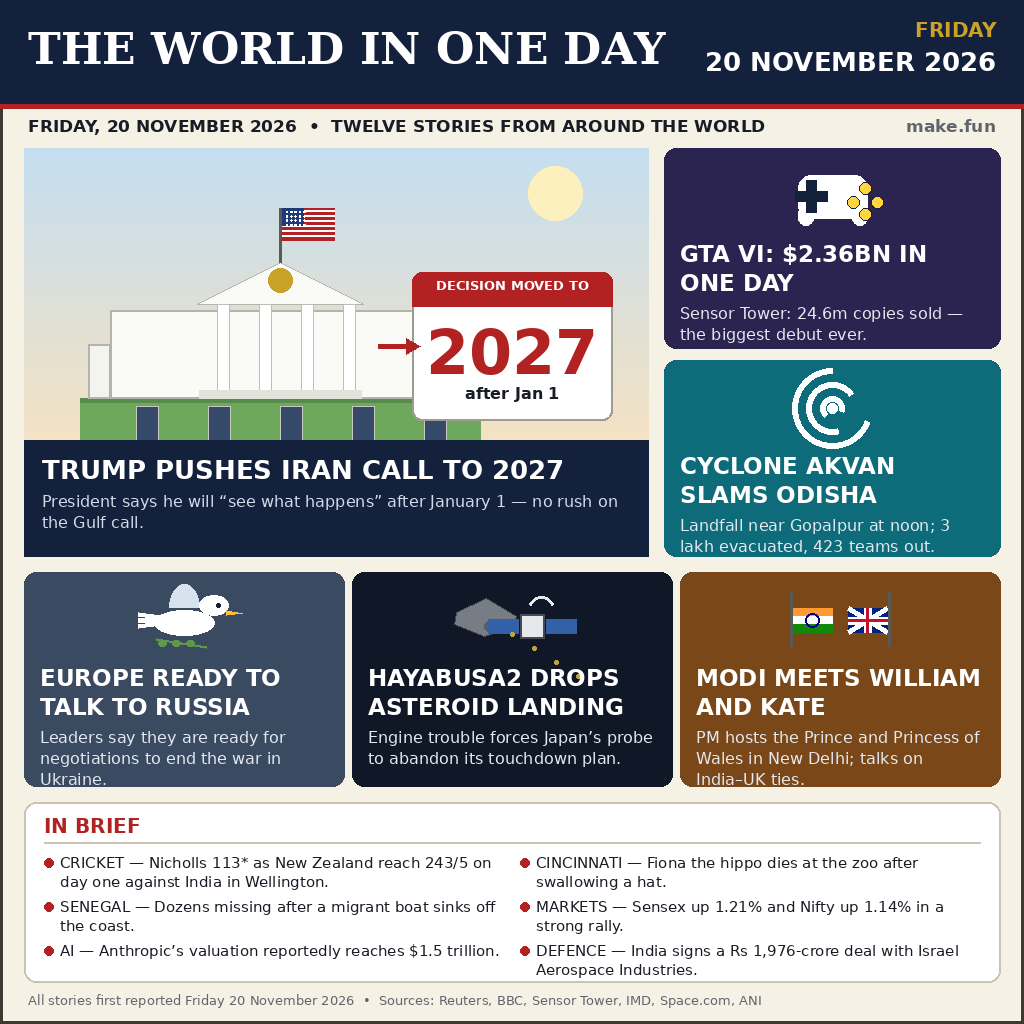
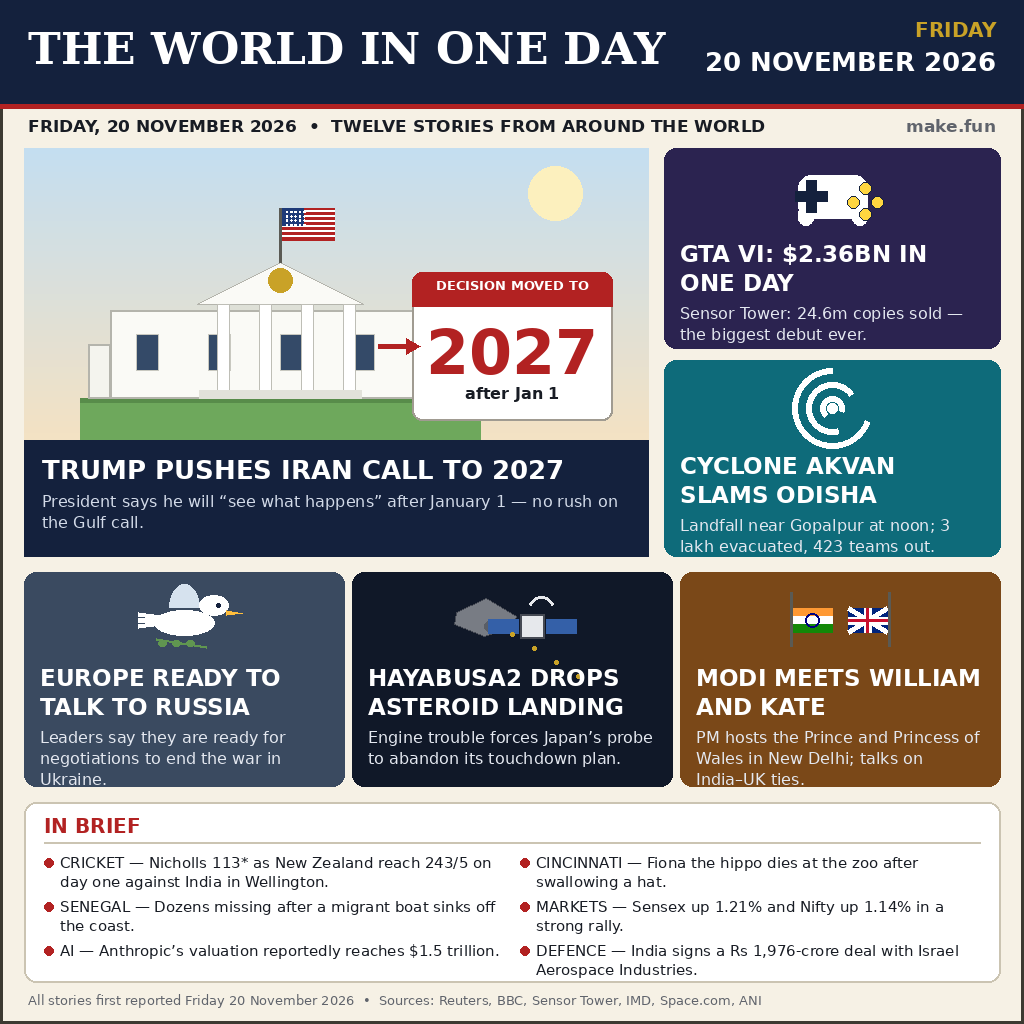
Move White House windows up into the facade (were floating on the lawn)

diff --git a/render.py b/render.py
@@ -100,10 +100,10 @@ def draw_white_house(draw, x, y, w, h):
                    outline=(180, 180, 172), width=2)
     draw.rectangle([bx + bw, by + 34, bx + bw + 22, by + bh],
                    fill=(244, 244, 238), outline=(180, 180, 172), width=2)
-    # windows
+    # windows (inside the main block, not hanging below it onto the lawn)
     for i in range(5):
         wx = bx + 26 + i * ((bw - 52) // 4)
-        draw.rectangle([wx, by + 96, wx + 22, by + 132],
+        draw.rectangle([wx, by + 24, wx + 22, by + 60],
                        fill=(52, 74, 104), outline=(200, 200, 192), width=1)
     # portico: columns + pediment
     cx, cy, cw = bx + bw // 2, by - 6, 150
